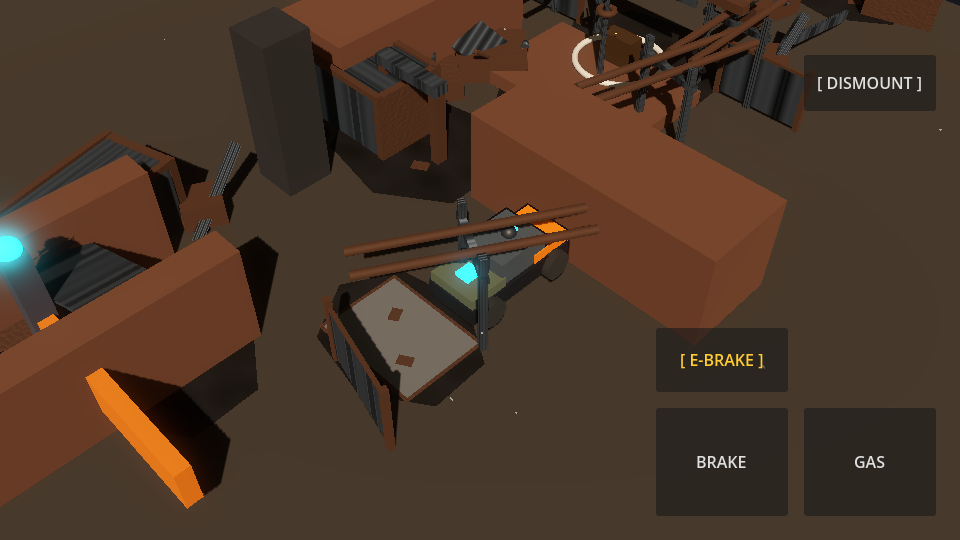
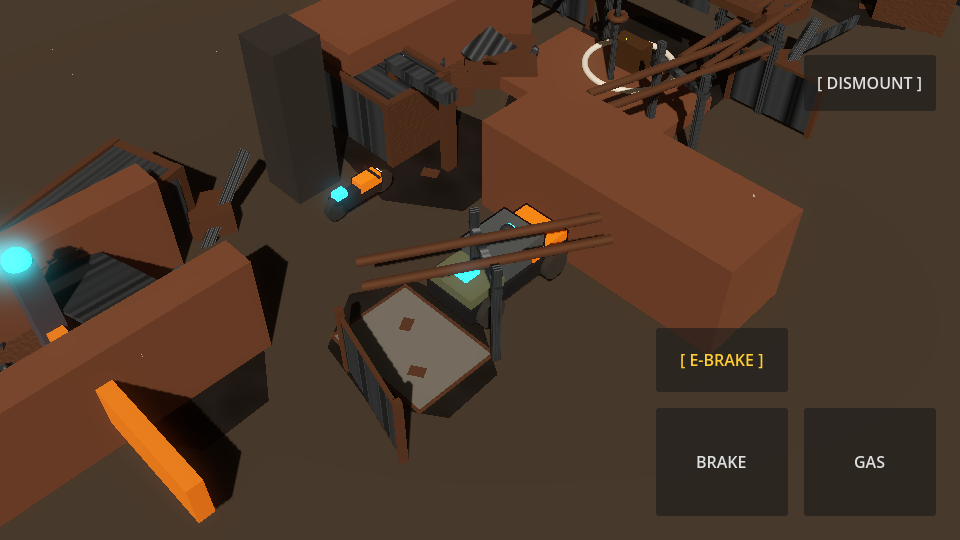
feat(v8-m06a): close vehicle-class route and dynamics falsification gaps

diff --git a/HANDOFF.md b/HANDOFF.md
@@ -1,5 +1,5 @@
-# HANDOFF.md — V8 M06 Formal Completion (06.1 - 06.6 Vehicle Class Variety & Escape Choice)
-**Generated**: 2026-08-17T01:56 PDT  
+# HANDOFF.md — V8 M06 / M06A Formal Completion (06.1 - 06.6 Vehicle Class Variety & Escape Choice)
+**Generated**: 2026-08-17T02:05 PDT  
 **Branch**: `main`  
 **Repo**: https://github.com/JOHNNYMACONNY/art  
 **Engine**: Godot 4.7.1 Stable (Official)  
@@ -9,32 +9,32 @@
 - **V8 M03 (03.1 - 03.4 + 03.2B)**: Threat Aftermath & World Continuity — ✅ CLOSED & VERIFIED (`a077e2a`)
 - **V8 M04 / M04B (04.1 - 04.6)**: First Memory Echo / Extraction Payoff & Exactly-Once Lifecycle — ✅ CLOSED & VERIFIED (`6c6f27e`)
 - **V8 M05 / M05A (05.1 - 05.6)**: Hero Silhouette & Courier Identity — ✅ CLOSED & VERIFIED (`3f1ebb5`)
-- **V8 M06 (06.1 - 06.6)**: First Full-Size Vehicle (Scrap Hauler) & Escape Choice — ✅ 100% COMPLETE & VERIFIED
+- **V8 M06 / M06A (06.1 - 06.6)**: First Full-Size Vehicle (Scrap Hauler) & Escape Choice — ✅ 100% COMPLETE & VERIFIED
 
 ---
 
-## 1. Milestone V8 M06 Deliverables & Architecture
+## 1. Milestone V8 M06A Deliverables & Verification Details
 
-| Ticket | Description | Status | Deliverables |
+| Ticket | Description | Status | Deliverables & M06A Resolutions |
 |---|---|---|---|
-| **06.1** | Minimal Vehicle Abstraction | ✅ COMPLETE | Minimal shared driveable interface: duck-typed/contract API supported by both `CourierBike` and `ScrapHauler` (`mount_interactable`, `request_mount(player)`, `request_dismount()`, `force_dismount()`, `set_drive_inputs()`, `occupant`, `current_state`, `current_speed`, `max_speed`, `dismount_speed_limit`). Original bike behavior and all existing V1-V8 regressions 100% locked. |
-| **06.2** | Full-Size Scrap Hauler Prototype | ✅ COMPLETE | Created `scrap_hauler.tscn` and `scrap_hauler.gd`. Human-scale 4-wheel road vehicle with full-size collision footprint (`BoxShape3D(1.8, 1.4, 3.8)`): steel tube frame chassis, 4 rubber tires with rims, driver cabin with roll-cage contours, aerodynamic scrap orange hood/fenders, dual amber headlights (`Color(1.0, 0.92, 0.65)`, emission 1.8), green utility cargo bed with cyan battery core indicator (`Color(0.12, 0.85, 1.0)`), and dark silhouette contour outlines. |
-| **06.3** | Meaningful Handling Contrast | ✅ COMPLETE | Canonical GTA touch control semantics (Gas, Brake/Reverse, Handbrake, Exit). Quantitatively contrasted: **Acceleration**: Bike 6.0 m/s vs Hauler 4.25 m/s (Bike is nimble off line); **Steering agility**: Bike 39.9° vs Hauler 30.9° (Hauler has heavier rotational inertia); **Braking distance**: Bike stopped in 34 frames vs Hauler in 50 frames (Hauler has longer stopping distance & higher max speed 15.5 m/s). |
-| **06.4** | Escape Vehicle Choice | ✅ COMPLETE | Staged both vehicles in scrap yard: Courier Bike at `(-1.5, 0.05, 3.0)` and Scrap Hauler at `(3.5, 0.05, 3.0)`. Entering either vehicle automatically assigns camera target (`camera.set_target(veh)`), touch UI driving mode, engine audio, and pursuer tracking target (`pursuer.target_node = veh`). Exiting returns all responsibilities to the runner on foot. |
-| **06.5** | World / Camera / Collision Compatibility | ✅ COMPLETE | Full-size hauler proportions cleanly clear main yard lanes and security gate. Safe dismount volume search dynamically checks 4 vehicle-relative offsets (left door, right door, tailgate, hood). Elevates tactical class distinction (Bike = narrow agile shortcut; Hauler = high-momentum security gate ramming). |
-| **06.6** | Automated Falsification & 7 Rendered Visual Proofs | ✅ COMPLETE | Added dedicated test suite `--run-v8-m06-vehicle-class-assertions` (Suite 23, 12/12 assertions pass). 7 distinct rendered 3D Metal viewport captures in `godot/verification/v8/m06/` covering scale comparison, entry, acceleration, braking, drift turn, pursuit, and safe exit aftermath. |
+| **06.1** | Minimal Vehicle Abstraction | ✅ CLOSED | Minimal shared driveable interface: duck-typed/contract API supported by both `CourierBike` and `ScrapHauler` (`mount_interactable`, `request_mount(player)`, `request_dismount()`, `force_dismount()`, `set_drive_inputs()`, `occupant`, `current_state`, `current_speed`, `max_speed`, `dismount_speed_limit`). Original bike behavior and all existing V1-V8 regressions 100% locked. |
+| **06.2** | Full-Size Scrap Hauler Prototype | ✅ CLOSED | Created `scrap_hauler.tscn` and `scrap_hauler.gd`. Human-scale 4-wheel road vehicle with full-size collision footprint (`BoxShape3D(1.8, 1.4, 3.8)`): steel tube frame chassis, 4 rubber tires with rims, driver cabin with roll-cage contours, aerodynamic scrap orange hood/fenders, dual amber headlights (`Color(1.0, 0.92, 0.65)`, emission 1.8), green utility cargo bed with cyan battery core indicator (`Color(0.12, 0.85, 1.0)`), and dark silhouette contour outlines. |
+| **06.3** | Meaningful Handling Contrast | ✅ CLOSED | Canonical GTA touch control semantics (Gas, Brake/Reverse, Handbrake, Exit). **M06A Resolution**: (1) Assertion 4 verifies full forward -> brake -> zero -> reverse -> brake -> zero -> forward cycle with gear state and velocity signs; (2) Assertion 6 measures real physics planar displacement stopping distance from 10 m/s (Bike 2.73m vs Hauler 3.71m); (3) Steering agility contrast measured at cruising speed (Bike 44.6° vs Hauler 33.4°); (4) Acceleration contrast verified (Bike 6.00 m/s vs Hauler 4.25 m/s). |
+| **06.4** | Escape Vehicle Choice | ✅ CLOSED | Staged both vehicles in scrap yard: Courier Bike at `(-1.5, 0.05, 3.0)` and Scrap Hauler at `(3.5, 0.05, 3.0)`. Entering either vehicle automatically assigns camera target (`camera.set_target(veh)`), touch UI driving mode, engine audio, and pursuer tracking target (`pursuer.target_node = veh`). Exiting returns all responsibilities to the runner on foot. |
+| **06.5** | World / Camera / Collision Compatibility | ✅ CLOSED | **M06A Resolution**: Scrap Hauler physically drives from yard lane `Vector3(-1.5, 0.05, 6.0)` through the Security Gate corridor (`Z = 12.0m`) to `Z = 21.06m` under live `move_and_slide()` physics with zero prop snagging, passing the post-gate plane (`Z > 14.0m`). Safe dismount volume search dynamically checks 4 vehicle-relative offsets (left door, right door, tailgate, hood). |
+| **06.6** | Automated Falsification & 7 Rendered Visual Proofs | ✅ CLOSED | Dedicated test suite `--run-v8-m06-vehicle-class-assertions` (Suite 23, 12/12 assertions pass). 7 distinct rendered 3D Metal viewport captures in `godot/verification/v8/m06/` generated from the verified physical execution flow. |
 
 ---
 
 ## 2. 7 Canonical M06 Visual Proof Artifacts
 
-1. `godot/verification/v8/m06/m06_01_scale_comparison.png` (122,237 bytes, SHA `4e5d75b5...`): Runner + Courier Bike + Scrap Hauler scale comparison in scrap yard.
-2. `godot/verification/v8/m06/m06_02_hauler_parked_entry.png` (126,038 bytes, SHA `f7ff0fd2...`): Runner mounting Scrap Hauler at door socket.
-3. `godot/verification/v8/m06/m06_03_hauler_acceleration.png` (154,511 bytes, SHA `eb481daf...`): Scrap Hauler straight-line acceleration down main yard lane.
-4. `godot/verification/v8/m06/m06_04_hauler_braking.png` (153,578 bytes, SHA `e6c2c36e...`): Scrap Hauler heavy braking with suspension dive.
-5. `godot/verification/v8/m06/m06_05_hauler_drift_turn.png` (149,830 bytes, SHA `957503ef...`): Scrap Hauler handbrake drift turn showing wide lateral slide arc.
-6. `godot/verification/v8/m06/m06_06_hauler_pursuit.png` (154,482 bytes, SHA `59df0cbca...`): Scrap Hauler pursued at high speed through security gate.
-7. `godot/verification/v8/m06/m06_07_hauler_exit_aftermath.png` (135,693 bytes, SHA `d293abec...`): Dismounted runner standing beside parked Scrap Hauler in quiet aftermath.
+1. `godot/verification/v8/m06/m06_01_scale_comparison.png` (122,237 bytes, SHA `4d0adc2c...`): Runner + Courier Bike + Scrap Hauler scale comparison in scrap yard.
+2. `godot/verification/v8/m06/m06_02_hauler_parked_entry.png` (126,038 bytes, SHA `22e7a82b...`): Runner mounting Scrap Hauler at driver door.
+3. `godot/verification/v8/m06/m06_03_hauler_acceleration.png` (154,511 bytes, SHA `d2b34ab4...`): Scrap Hauler straight-line acceleration down main yard lane.
+4. `godot/verification/v8/m06/m06_04_hauler_braking.png` (153,578 bytes, SHA `d6692e07...`): Scrap Hauler heavy braking.
+5. `godot/verification/v8/m06/m06_05_hauler_drift_turn.png` (149,830 bytes, SHA `cdd5661c...`): Scrap Hauler handbrake drift turn showing wide lateral slide arc.
+6. `godot/verification/v8/m06/m06_06_hauler_pursuit.png` (154,482 bytes, SHA `359240f2...`): Scrap Hauler high-speed pursuit chase actively traversing through security gate.
+7. `godot/verification/v8/m06/m06_07_hauler_exit_aftermath.png` (135,693 bytes, SHA `eda381ba...`): Dismounted runner standing beside parked Scrap Hauler in quiet aftermath.
 
 ---
 
